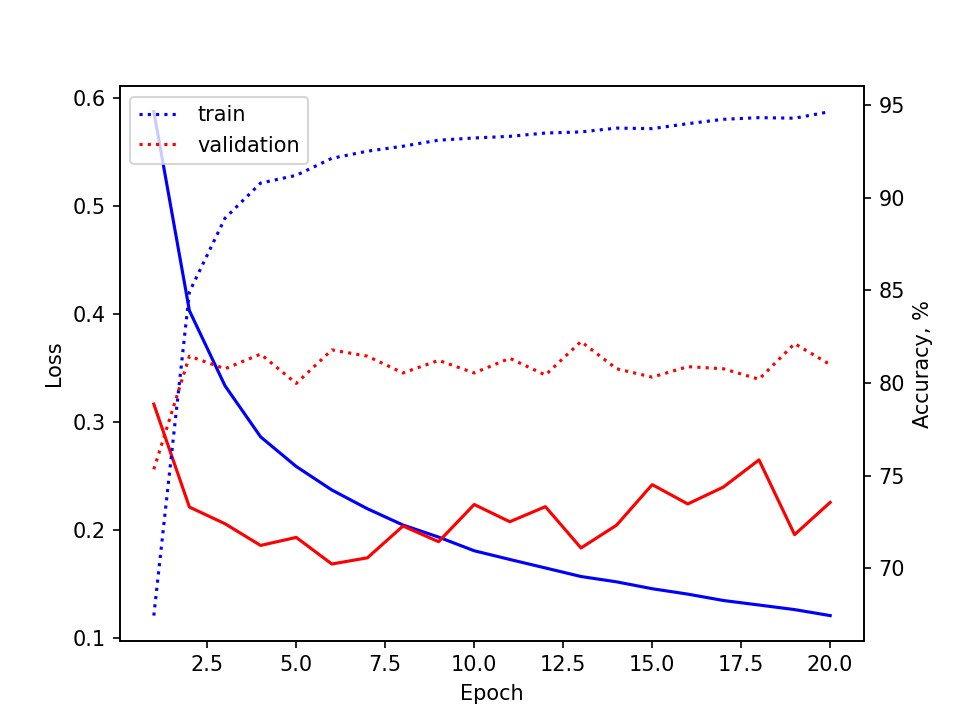
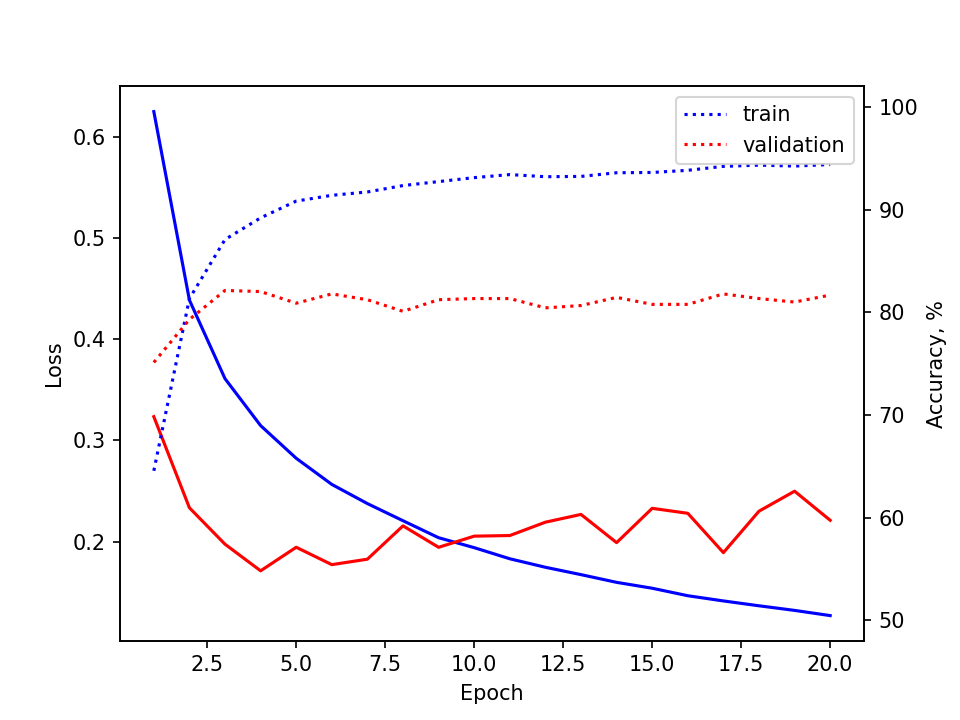
Minor changes

diff --git a/train_fc.py b/train_fc.py
@@ -7,7 +7,7 @@ from torch import nn
 from torch.optim import Adam
 import matplotlib.pyplot as plt
 
-from ft_export import get_array_paths
+from ft_export import get_array_paths, N_FFT
 
 
 DEVICE = torch.device("cuda" if torch.cuda.is_available() else "cpu")
@@ -20,13 +20,7 @@ def main():
                         for fname in get_array_paths("train"))
     X_dev, y_dev = (np.loadtxt(fname) for fname in get_array_paths("dev"))
 
-    input_dim = X_train.shape[1]
-    hidden_dim = 512
-    model = nn.Sequential(
-        nn.Linear(input_dim, hidden_dim),
-        nn.ReLU(),
-        nn.Linear(hidden_dim, 1)
-    ).to(DEVICE)
+    model = SimpleNeuralNetwork(input_dim=N_FFT // 2 + 1).to(DEVICE)
 
     train_loss, train_acc, val_loss, val_acc = train(
         model, X_train, y_train, X_dev, y_dev)
@@ -41,8 +35,22 @@ def main():
     plt.plot(epochs, train_acc * 100, 'b:', label="train")
     plt.plot(epochs, val_acc * 100, 'r:', label="validation")
     plt.ylabel("Accuracy, %")
+    plt.ylim(48, 102)
     plt.legend()
     plt.savefig(Path("plots/fc_model.png"), dpi=150)
+
+
+class SimpleNeuralNetwork(nn.Module):
+    def __init__(self, input_dim: int, hidden_size: int = 512):
+        super().__init__()
+        self.net = nn.Sequential(
+            nn.Linear(input_dim, hidden_size),
+            nn.ReLU(),
+            nn.Linear(hidden_size, 1)
+        )
+
+    def forward(self, x: torch.Tensor) -> torch.Tensor:
+        return self.net(x)
 
 
 def train(model: nn.Module, X_train: np.ndarray, y_train: np.ndarray,

diff --git a/ft_export.py b/ft_export.py
@@ -8,11 +8,12 @@ from utils.dataset import load_datasets, LibriTTS
 
 
 ARRAY_PATH = Path("data/arrays")
+N_FFT = 512
 
 
 def main():
     train, test, dev = load_datasets(
-        seed=42, transform=T.Spectrogram(n_fft=512))
+        seed=42, transform=T.Spectrogram(n_fft=N_FFT))
     save_to = ARRAY_PATH
     print(f"Saving Fourier transforms to {save_to}")
     for dset, name in zip((train, test, dev), ("train", "test", "dev")):
